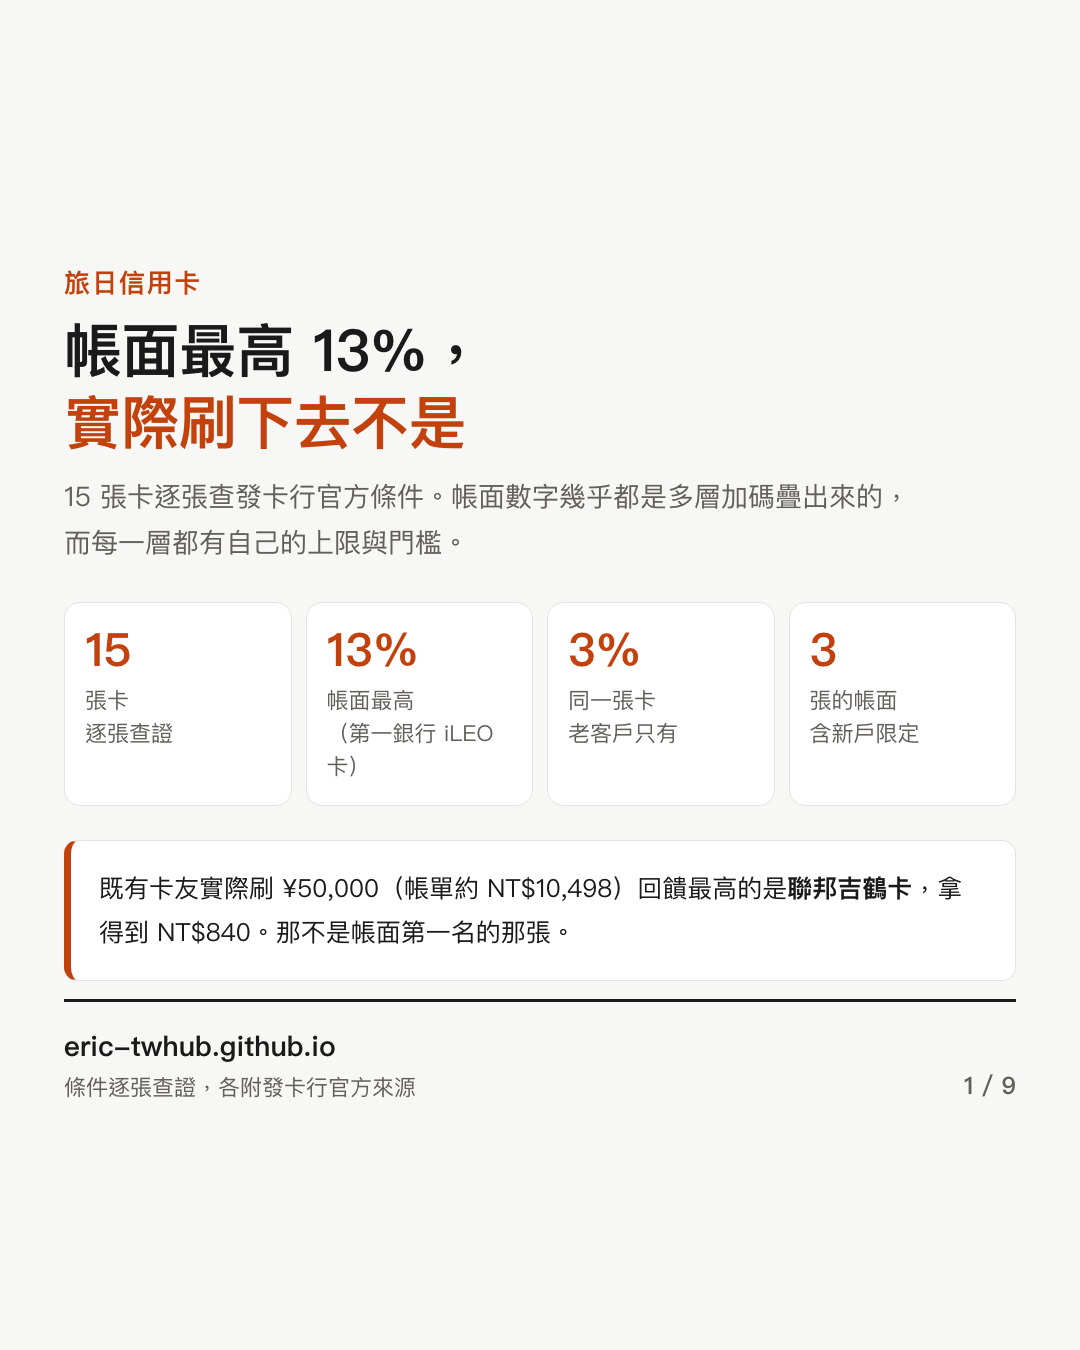
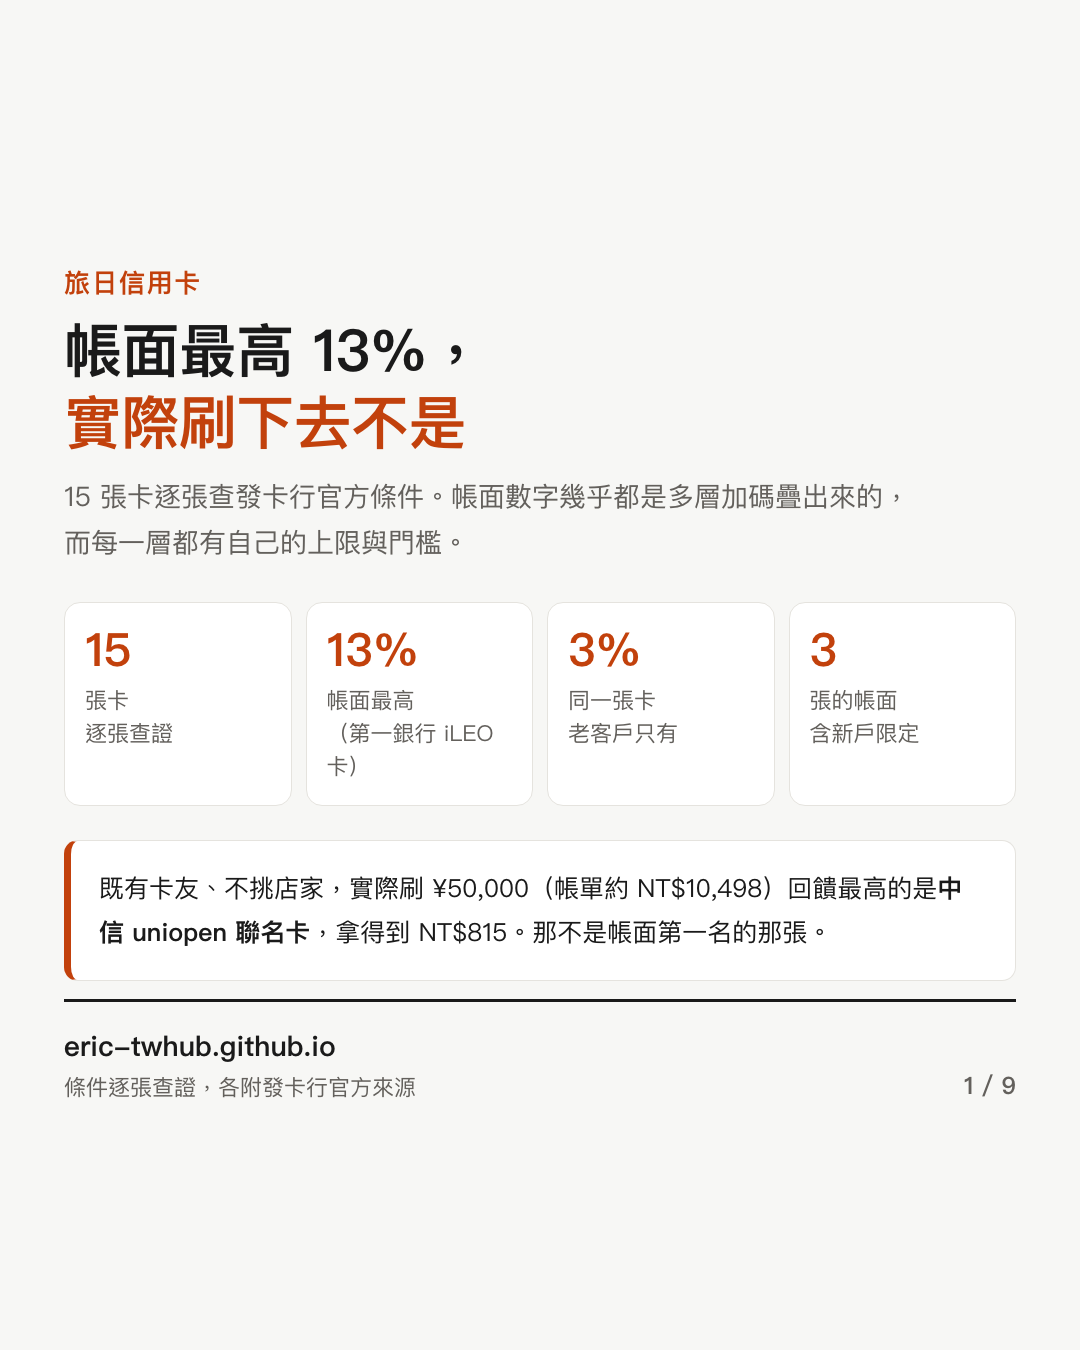
實拿排行改以「不挑店家」計算，每張標出登錄與通路條件
排行只寫百分比、不寫條件，讀者會以為走進任何一家店都拿得到。
實際上四張的帳面數字綁指定通路：玉山熊本熊 8.5%（差 500 元）、
永豐幣倍 6%（差 420 元）、聯邦吉鶴 8%（差 315 元）、
國泰 CUBE 5%（差 157 元）。

改為：
- 排序與封面數字改用「既有卡友、不挑店家」的加碼層，
  綁 store_scope 的層不算進來。
- 卡名下面改印條件（免登錄／要登錄／要先設定或切 App／
  要搶限量登錄），接著標「指定通路才有 X%」、
  「新戶另有 +X%」、「官方 X%，一層已額滿」。
- 副標與說明寫明計算基礎。

Changed region(s): [[0.0917, 0.6533, 0.8861, 0.7156]]

diff --git a/make_creditcard_cards.py b/make_creditcard_cards.py
@@ -201,10 +201,55 @@ def build(CD, mid, fee, rate_note):
     def rate_txt(v):
         return f'{v:g}%'
 
+    def plain_ts(c):
+        """到處都能拿到的加碼層：排除新戶層、名額已滿的層、以及綁店家名單的層。
+
+        綁名單的那幾層只有在指定通路才成立，和不綁的層排在同一欄比大小
+        等於假設讀者剛好都在那幾家消費。四張卡因此被高估，熊本熊差 500 元。"""
+        return [t for t in tiers(c, 'shop', newbie=False) if not t.get('store_scope')]
+
+    def plain_rate(c):
+        ts = plain_ts(c)
+        b = 0 if any(t.get('no_base') for t in ts) else c['base']
+        return round(b + sum(t['rate'] for t in ts), 2)
+
+    def plain_back(c):
+        b = bill(DEMO_JPY)
+        ts = plain_ts(c)
+        v = 0 if any(t.get('no_base') for t in ts) else c['base'] / 100 * b
+        capped = False
+        for t in ts:
+            x = t['rate'] / 100 * b
+            if t['cap'] and x > t['cap']:
+                x, capped = t['cap'], True
+            v += x
+        return v, capped
+
+    def plain_hit(c):
+        ts = [t for t in plain_ts(c) if t['cap']]
+        return round(min(t['cap'] / (t['rate'] / 100) for t in ts)) if ts else 0
+
+    def store_rate(c):
+        """挑對店家才拿得到的那個數字，沒有綁名單的層就回 0。"""
+        return (round(maxrate(c, 'shop', newbie=False), 2)
+                if any(t.get('store_scope') for t in tiers(c, 'shop', newbie=False))
+                else 0)
+
+    REG = {'none': '免登錄', 'reg': '要登錄', 'setup': '要先設定或切 App',
+           'race': '要搶限量登錄'}
+
+    def reg_txt(c):
+        lv = c.get('reg_level')
+        # reg_level 是整張卡的，但有 reg_monthly 的卡只有它指名的那一層要搶，
+        # 吉鶴要搶的是交通卡儲值，不在這個排行的數字裡，標「要搶」會嚇錯人。
+        if lv == 'race' and c.get('reg_monthly'):
+            return '要登錄'
+        return REG.get(lv, '')
+
     # 依「刷 DEMO_JPY 實際拿到多少」排序，而且一律以既有卡友計算。
     # 新戶加碼是核卡後一次性的，15 張裡只有 3 張有，算進去會讓整個排行偏高，
     # 而多數讀者手上的卡早就不是新辦的。新戶的數字留在第 4 張單獨講。
-    ranked = sorted(cards, key=lambda c: -back(c, DEMO_JPY, 'shop', False)[0])
+    ranked = sorted(cards, key=lambda c: -plain_back(c)[0])
     newbie_gap = [c for c in cards if maxrate(c) != maxrate(c, newbie=False)]
 
     # ── 1 封面 ──
@@ -220,10 +265,10 @@ def build(CD, mid, fee, rate_note):
              f'<div><b>{maxrate(top_paper, newbie=False):g}%</b>'
              f'<span>同一張卡<br>老客戶只有</span></div>'
              f'<div><b>{len(newbie_gap)}</b><span>張的帳面<br>含新戶限定</span></div></div>'
-             f'<div class="note">既有卡友實際刷 ¥{DEMO_JPY:,}'
+             f'<div class="note">既有卡友、不挑店家，實際刷 ¥{DEMO_JPY:,}'
              f'（帳單約 NT${demo_bill:,.0f}）回饋最高的是'
              f'<b>{E(top_real["name"])}</b>，'
-             f'拿得到 NT${back(top_real, DEMO_JPY, "shop", False)[0]:,.0f}。'
+             f'拿得到 NT${plain_back(top_real)[0]:,.0f}。'
              f'那不是帳面第一名的那張。</div>' + foot(1, n))
     out.append(('jp-card-01.png', page(cover, 'cover')))
 
@@ -234,24 +279,31 @@ def build(CD, mid, fee, rate_note):
                 f'<div class="c2">刷 ¥{DEMO_JPY // 1000}K 實拿</div>'
                 '<div class="c3">加碼到頂</div></div>')
         for j, c in enumerate(items, start):
-            v, capped = back(c, DEMO_JPY, 'shop', False)
-            h = hit(c, 'shop', False)
+            v, capped = plain_back(c)
+            h = plain_hit(c)
             nb = round(maxrate(c, 'shop') - maxrate(c, 'shop', newbie=False), 2)
+            sr = store_rate(c)
+            # 卡名底下那行改放條件。原本放的是方案名稱（日本旅遊祭之類），
+            # 那是裝飾；小抄上有，這裡的空間要留給「拿不到的理由」。
+            cond = [x for x in (
+                reg_txt(c),
+                f'指定通路才有 {sr:g}%' if sr else '',
+                f'新戶另有 +{nb:g}%' if nb else '',
+                f'官方 {c["total"]:g}%，一層已額滿' if soldout(c) else '',
+            ) if x]
             rows += (f'<div class="row"><div class="num">{j:02}</div>'
-                     f'<div class="nm">{E(c["name"])}<s>{E(c["plan"])}'
-                     + (f'　新戶另有 +{nb:g}%' if nb else '')
-                     + (f'　官方 {c["total"]:g}%，一層已額滿' if soldout(c) else '')
-                     + '</s></div>'
-                     f'<div class="c1">{rate_txt(maxrate(c, "shop", newbie=False))}</div>'
+                     f'<div class="nm">{E(c["name"])}<s>{E("・".join(cond))}</s></div>'
+                     f'<div class="c1">{rate_txt(plain_rate(c))}</div>'
                      f'<div class="c2">{v:,.0f}<small>元</small></div>'
                      f'<div class="c3{" warn" if capped else ""}">'
                      + (f'NT${h:,}' if h else '無上限') + '</div></div>')
         return ('<div class="kick">旅日信用卡</div>'
                 f'<h1>實拿排行 <em>{part}</em></h1>'
-                f'<div class="sub">以<em>既有卡友</em>計算，'
-                f'依「刷 ¥{DEMO_JPY:,} 實際拿到多少」排序，不是依帳面。</div>'
-                '<div class="legend">「加碼到頂」是加碼額度用完的台幣帳單金額，'
-                '超過之後只剩基本回饋。標紅色的表示這筆已經觸頂。</div>'
+                f'<div class="sub">以<em>既有卡友</em>、<em>不挑店家</em>計算：'
+                f'走進任何一家日本實體店就拿得到的數字。</div>'
+                '<div class="legend">綁指定通路的加碼不算進來，那幾張在卡名下面'
+                '標出「指定通路才有幾％」。「加碼到頂」是加碼額度用完的台幣帳單'
+                '金額，超過之後只剩基本回饋。</div>'
                 f'<div class="list">{rows}</div>' + foot(idx, n))
 
     out.append(('jp-card-02.png', page(rank_card(2, '①', ranked[:8], 1))))
